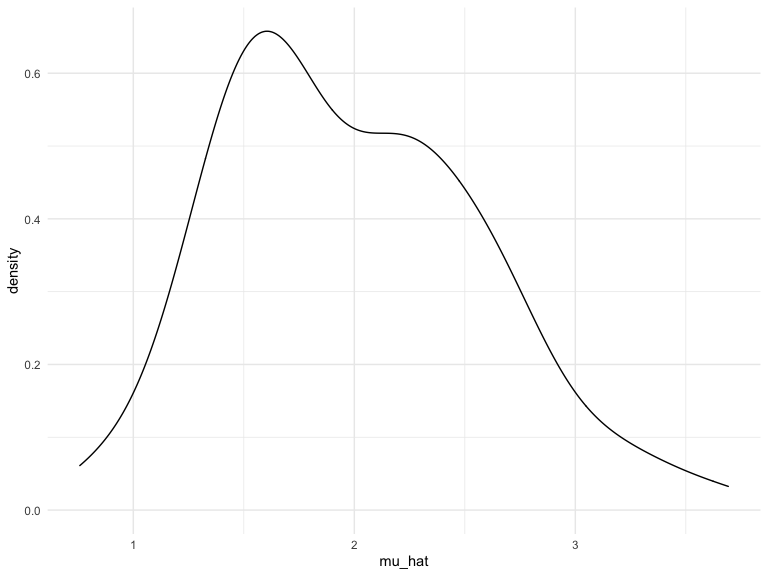
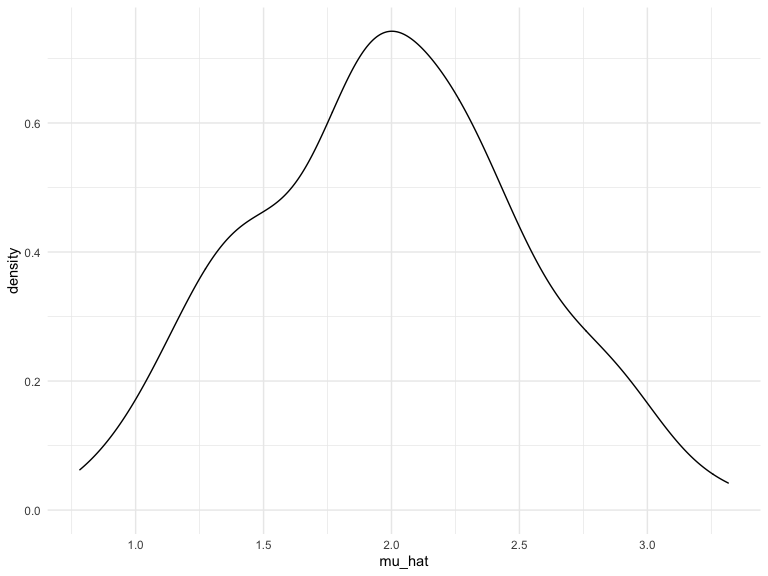
we did simulations!!!!!!!!!!

diff --git a/simulaitons.md b/simulaitons.md
@@ -29,7 +29,7 @@ sim_mean_sd(30)
     ## # A tibble: 1 x 2
     ##   mu_hat sigma_hat
     ##    <dbl>     <dbl>
-    ## 1   1.51      2.91
+    ## 1   1.96      2.46
 
 ## let’s simulate a lot.
 
@@ -75,7 +75,7 @@ sim_results %>%
     ## # A tibble: 1 x 2
     ##   avg_samp_mean sd_samp_mean
     ##           <dbl>        <dbl>
-    ## 1          1.99        0.591
+    ## 1          1.99        0.525
 
 ``` r
 sim_results %>% 
@@ -94,5 +94,65 @@ sim_results %>%
 
 | parameter  | emp\_mean | emp\_sd |
 | :--------- | --------: | ------: |
-| mu\_hat    |     1.992 |   0.591 |
-| sigma\_hat |     2.954 |   0.412 |
+| mu\_hat    |     1.989 |   0.525 |
+| sigma\_hat |     2.938 |   0.385 |
+
+## let’s try other sample sizes.
+
+``` r
+n_list = 
+  list(
+    "n_30"  = 30, 
+    "n_60"  = 60, 
+    "n_120" = 120, 
+    "n_240" = 240)
+
+output = vector("list", length = 4)
+
+for (i in 1:4) {
+  output[[i]] = 
+    rerun(100, sim_mean_sd(n_list[[i]])) %>% 
+    bind_rows
+}
+```
+
+``` r
+sim_results = 
+  tibble(sample_size = c(30, 60, 120, 240)) %>% 
+  mutate(
+    output_lists = map(.x = sample_size, ~rerun(1000, sim_mean_sd(n = .x))),
+    estimate_dfs = map(output_lists, bind_rows)) %>% 
+  select(-output_lists) %>% 
+  unnest(estimate_dfs)
+```
+
+do some data frame things
+
+``` r
+sim_results %>% 
+  mutate(
+    sample_size = str_c("n = ", sample_size),
+    sample_size = fct_inorder(sample_size)) %>% 
+  ggplot(aes(x = sample_size, y = mu_hat, fill = sample_size)) + 
+  geom_violin()
+```
+
+<img src="simulaitons_files/figure-gfm/unnamed-chunk-9-1.png" width="90%" />
+
+``` r
+sim_results %>%
+  group_by(sample_size) %>%
+  summarize(
+    avg_samp_mean = mean(mu_hat),
+    sd_samp_mean = sd(mu_hat))
+```
+
+    ## `summarise()` ungrouping output (override with `.groups` argument)
+
+    ## # A tibble: 4 x 3
+    ##   sample_size avg_samp_mean sd_samp_mean
+    ##         <dbl>         <dbl>        <dbl>
+    ## 1          30          1.97        0.547
+    ## 2          60          2.01        0.397
+    ## 3         120          1.99        0.269
+    ## 4         240          2.01        0.192
